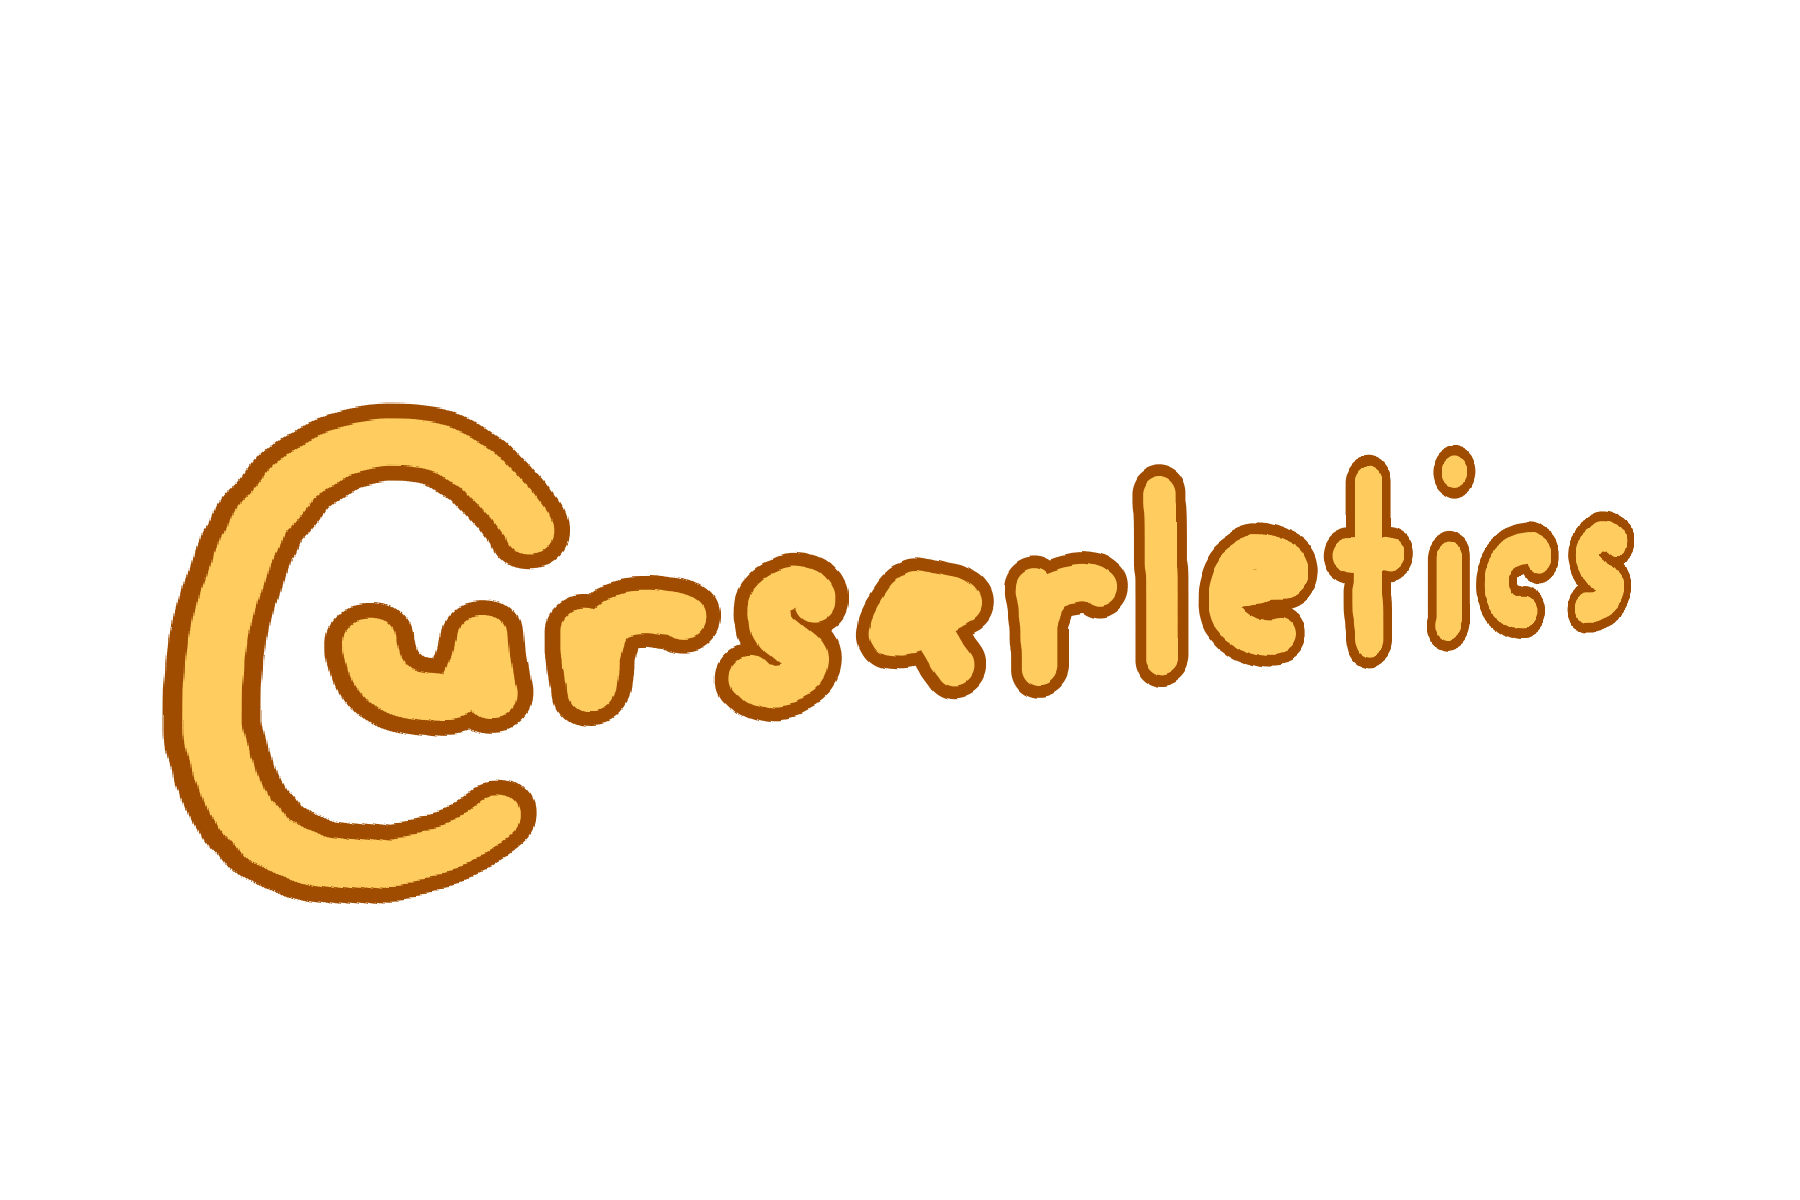
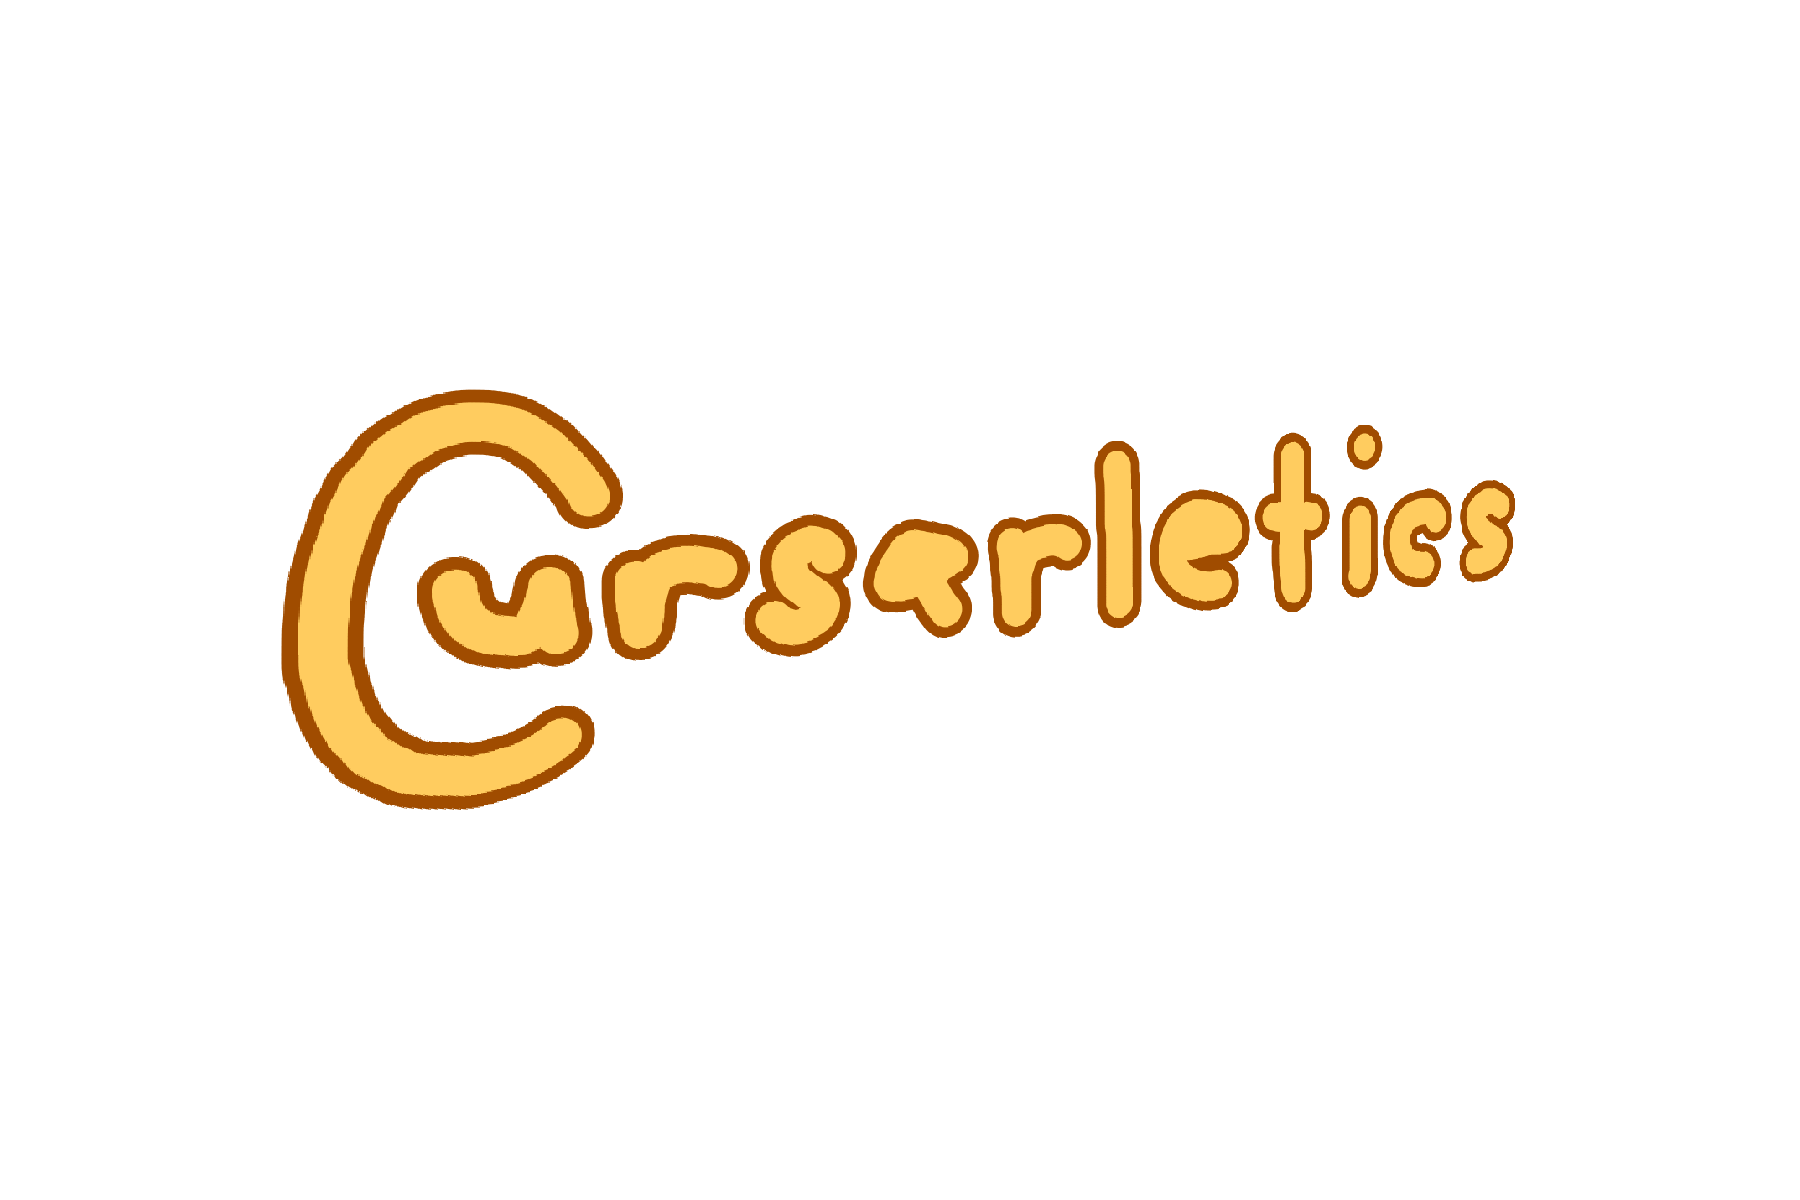
BugFixUpdate

Changed region(s): [[0.0622, 0.3083, 0.9333, 0.7708]]

diff --git a/style.css b/style.css
@@ -6,21 +6,7 @@ html, body {
 body {
     font-family: Arial, Helvetica, sans-serif;
     overflow-x: hidden;
-    background-image: url("images/Background.png");
-    background-size: 110% auto;
-    background-position: center center;
-    background-repeat: no-repeat;
-    animation: backgroundFloat 10s ease-in-out infinite;
-}
-
-@keyframes backgroundFloat {
-    0%, 100% {
-        background-position: center center;
-    }
-
-    50% {
-        background-position: center 53%;
-    }
+    background-color: #7C2D12;
 }
 
 #homepageCarousel {